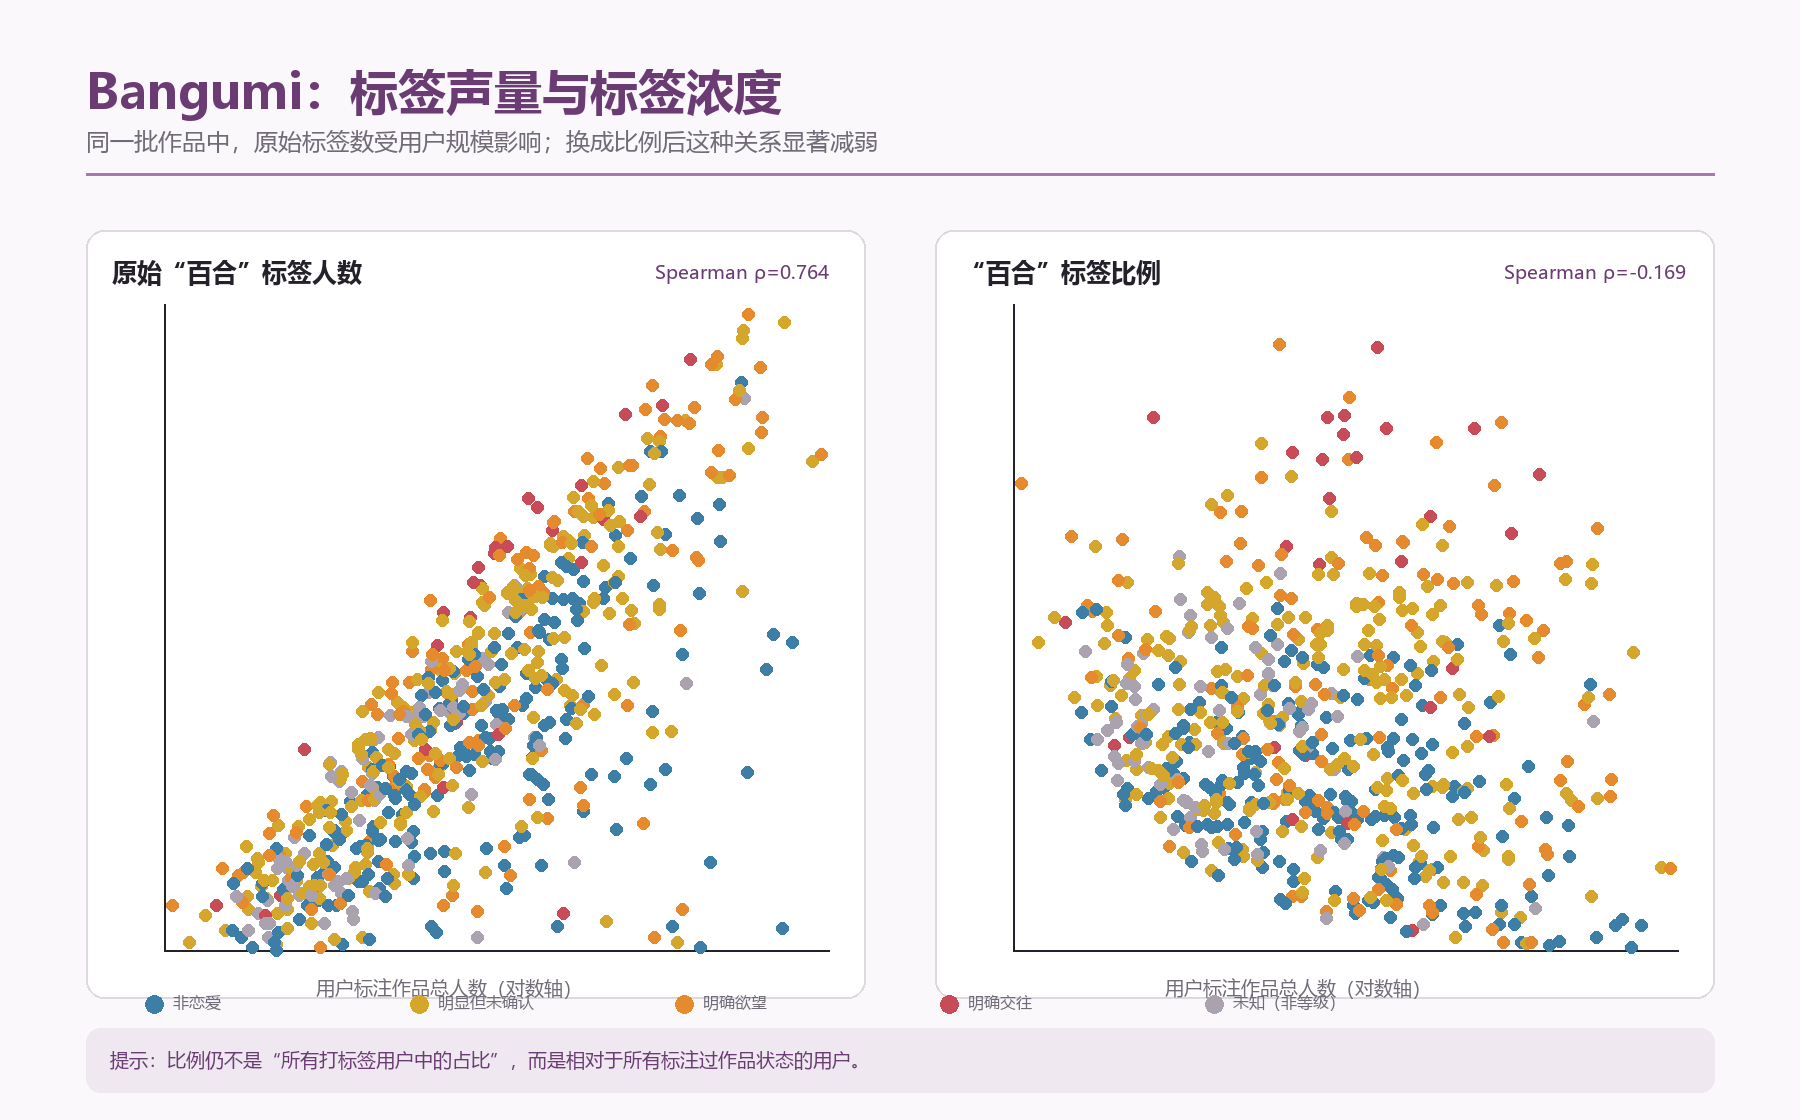
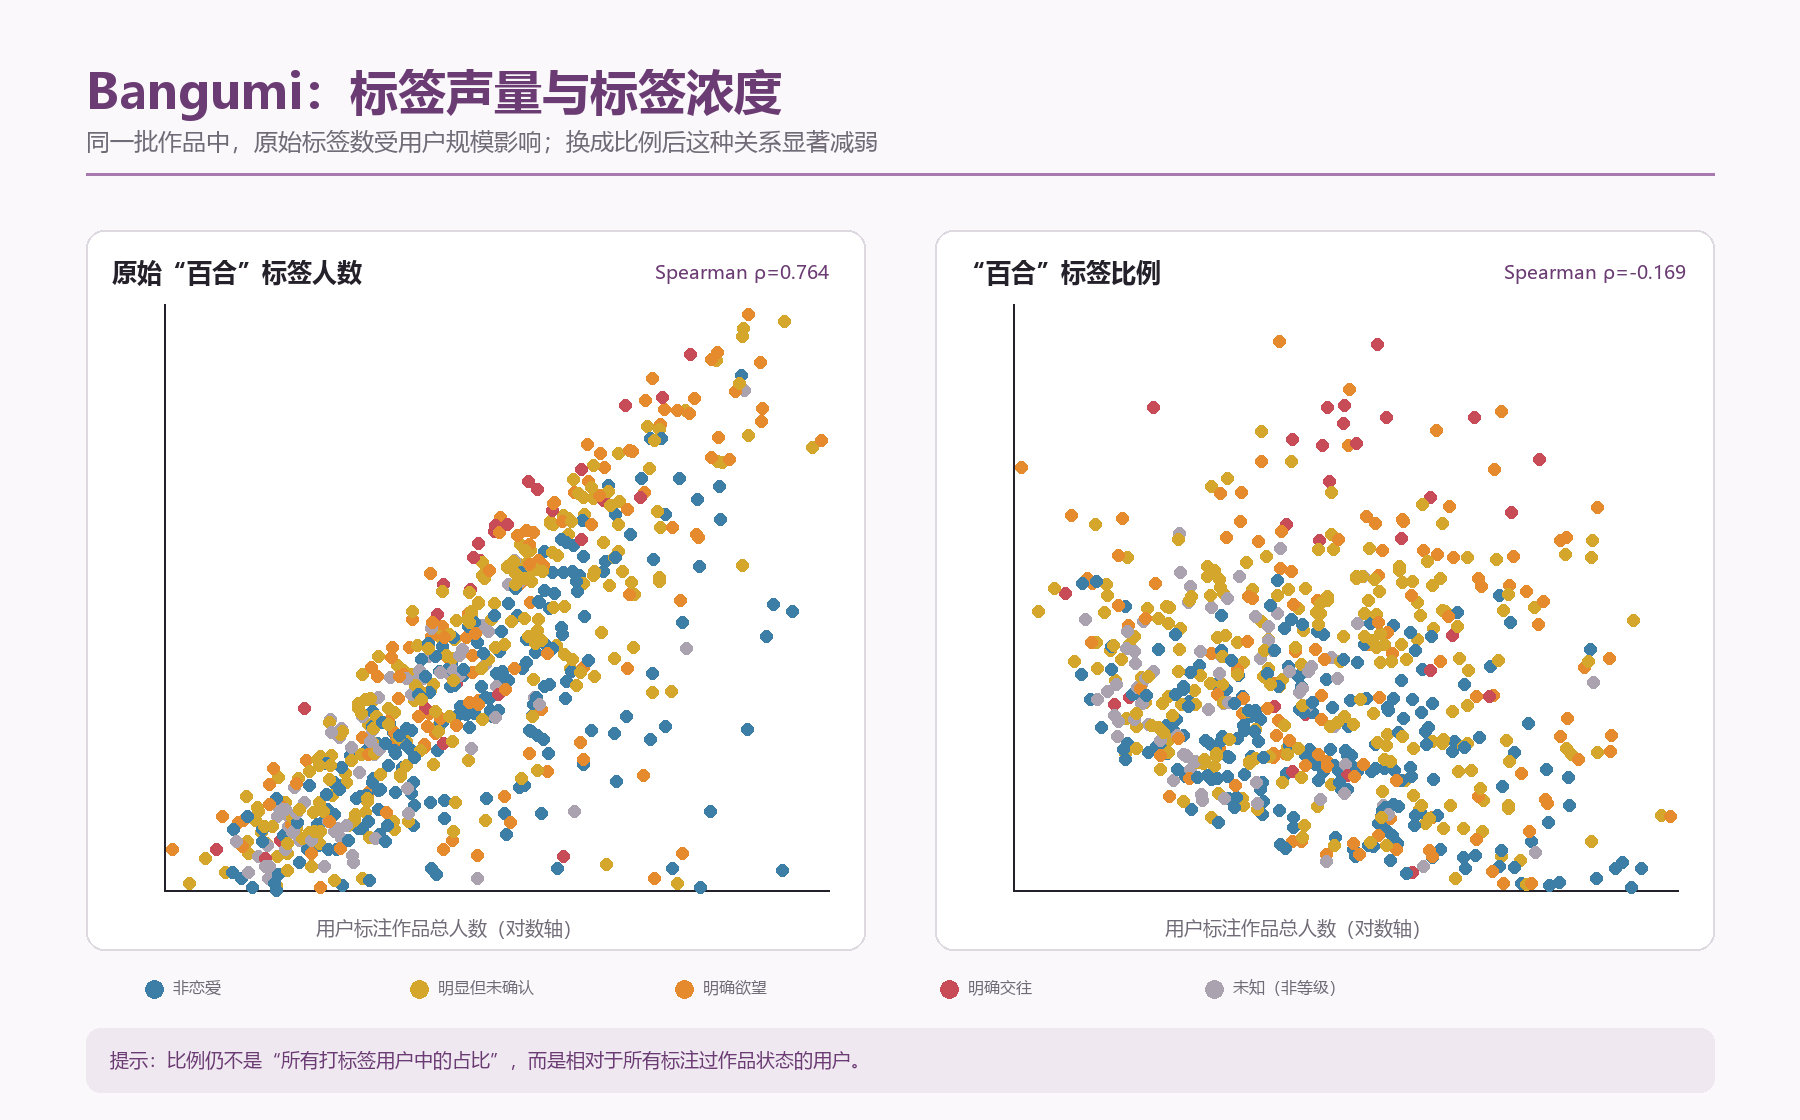
Refresh public analysis figures and article

diff --git a/articles/anime-label-divergence/index.html b/articles/anime-label-divergence/index.html
@@ -3,7 +3,7 @@
 <head>
   <meta charset="utf-8">
   <meta name="viewport" content="width=device-width, initial-scale=1">
-  <meta name="description" content="以冻结发布选择为边界，比较 Bangumi、Anime-Planet、AniList 与 MyAnimeList 的标签字段，并把数据库信号与逐关系文本判断分开阅读。">
+  <meta name="description" content="比较四个平台的标签字段，把数据库信号与逐关系文本判断分开阅读。">
   <meta name="color-scheme" content="light dark">
   <meta id="theme-color-light" name="theme-color" media="(prefers-color-scheme: light)" content="#f5f0e8">
   <meta id="theme-color-dark" name="theme-color" media="(prefers-color-scheme: dark)" content="#1c181c">
@@ -43,7 +43,7 @@
   <meta property="og:type" content="article">
   <meta property="og:site_name" content="百合作品分类档案">
   <meta property="og:title" content="从女女关系到百合类型：四个平台画出不同的百合地图｜百合作品分类档案">
-  <meta property="og:description" content="以冻结发布选择为边界，比较 Bangumi、Anime-Planet、AniList 与 MyAnimeList 的标签字段，并把数据库信号与逐关系文本判断分开阅读。">
+  <meta property="og:description" content="比较四个平台的标签字段，把数据库信号与逐关系文本判断分开阅读。">
   <meta property="og:url" content="https://l-m-sherlock.github.io/yuri-classification-archive/articles/anime-label-divergence/">
   <meta property="og:image" content="https://l-m-sherlock.github.io/yuri-classification-archive/assets/og.png"><meta property="og:image:width" content="1200"><meta property="og:image:height" content="630">
   <title>从女女关系到百合类型：四个平台画出不同的百合地图｜百合作品分类档案</title>
@@ -96,7 +96,7 @@
   <header class="article-header">
     <p class="eyebrow">DATA ESSAY · 冻结样本分析</p>
     <h1>从女女关系到百合类型：四个平台画出不同的百合地图</h1>
-    <p class="article-deck">以冻结发布选择为边界，比较 Bangumi、Anime-Planet、AniList 与 MyAnimeList 的标签字段，并把数据库信号与逐关系文本判断分开阅读。</p>
+    <p class="article-deck">比较四个平台的标签字段，把数据库信号与逐关系文本判断分开阅读。</p>
     <aside class="snapshot-notice"><strong>冻结数据快照</strong><p>本文解释截至 2026-08-06 采集的 667 部合格作品；其范围由发布选择清单固定，不会随未来私有档案自动扩张。</p></aside>
   </header>
   <div class="article-layout">
@@ -106,9 +106,9 @@
     </aside>
     <div class="article-content">
       <blockquote>
-<p><strong>样本范围。</strong> 本文以 Bangumi 动画“百合”标签榜为作品入口，纳入榜单中排名不低于《BanG Dream! Ave Mujica》的动画版本。榜单只证明这些作品被用户纳入“百合”检索路径，不证明其正篇存在女女恋爱，也不代表官方类型认定。专题统计只使用既定发布基线内完成版本核对、文本分类与质量校验的作品；基线外作品不在本次扩容中补入，证据仍不闭合的版本继续隔离。</p>
+<p><strong>样本范围。</strong> 本文以 Bangumi 动画“百合”标签榜为作品入口，纳入榜单中排名不低于《BanG Dream! Ave Mujica》的动画版本。榜单只证明这些作品被用户纳入“百合”检索路径，不证明其正篇存在女女恋爱，也不代表官方类型认定。专题统计只纳入已完成版本核对、文本分类与质量校验的作品；证据仍不闭合的版本暂不纳入统计。</p>
 </blockquote>
-<p>本专题的统一数据日期为 2026 年 8 月 6 日。冻结候选共 719 个动画版本，既定发布基线为其中 693 个；质量复核后 <strong>667 个</strong><!-- -->进入本专题，基线内另有 26 个继续隔离，其余 26 个不在既定发布基线内。同一企划的 TV、电影、OVA、WEB 等版本分别判断，候选边界不吸收此后新增条目。下文的比例、交集、分组、六张图与文末查找表都来自同一份 667 行数据快照。</p>
+<p>本专题的统一数据日期为 2026 年 8 月 6 日。榜单入口共涉及 719 个动画版本，完成质量复核后 <strong>667 个</strong><!-- -->进入本专题，另有 52 个因证据尚未闭合而暂不纳入。同一企划的 TV、电影、OVA、WEB 等版本分别判断；下文的比例、交集、分组、六张图与文末查找表都来自同一份 667 行数据。</p>
 <p>同一部动画在不同数据库里，常会得到看似冲突的结果：Bangumi 有大量用户标“百合”，AniList 的 Yuri 相关度很高，Anime-Planet 却没有 GL，MyAnimeList 也没有 Girls Love。把这理解成四个平台在回答同一道“是不是百合”，问题就会变成一场多数决；先问每个字段服务什么查询，分歧才开始提供信息。</p>
 <p>本项目先把“是不是百合”拆成可观察变量，再追问这些变量在作品、官方材料与检索系统中分别怎样运作。这套方法只提供分析工具，不替任何作品盖章。</p>
 <h2 id="一分钟结论">一分钟结论</h2>
